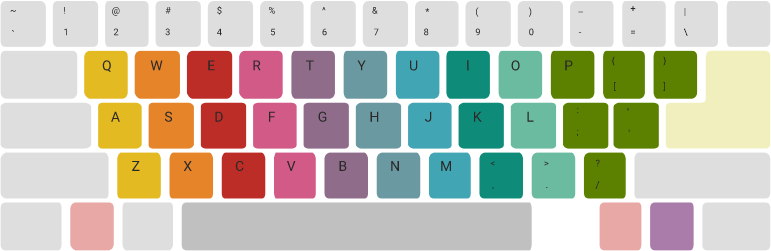
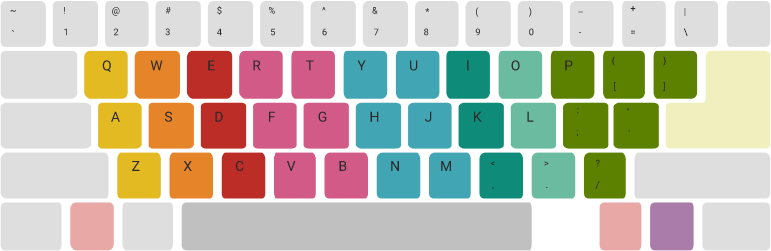
layout color update

Changed region(s): [[0.3735, 0.1952, 0.5603, 0.8088]]

diff --git a/src/app/appComponents/charColors.css b/src/app/appComponents/charColors.css
@@ -42,23 +42,23 @@
   fill:#D15A86;
 }
 .charT{
-  fill:#8E6C8A;
+  fill:#D15A86;
 }
 .charG{
-  fill:#8E6C8A;
+  fill:#D15A86;
 }
 .charB{
-  fill:#8E6C8A;
+  fill:#D15A86;
 }
 /* 5 */
 .charY{
-  fill:#6B99A1;
+  fill:#42A5B3;
 }
 .charH{
-  fill:#6B99A1;
+  fill:#42A5B3;
 }
 .charN{
-  fill:#6B99A1;
+  fill:#42A5B3;
 }
 .charU{
   fill:#42A5B3;
